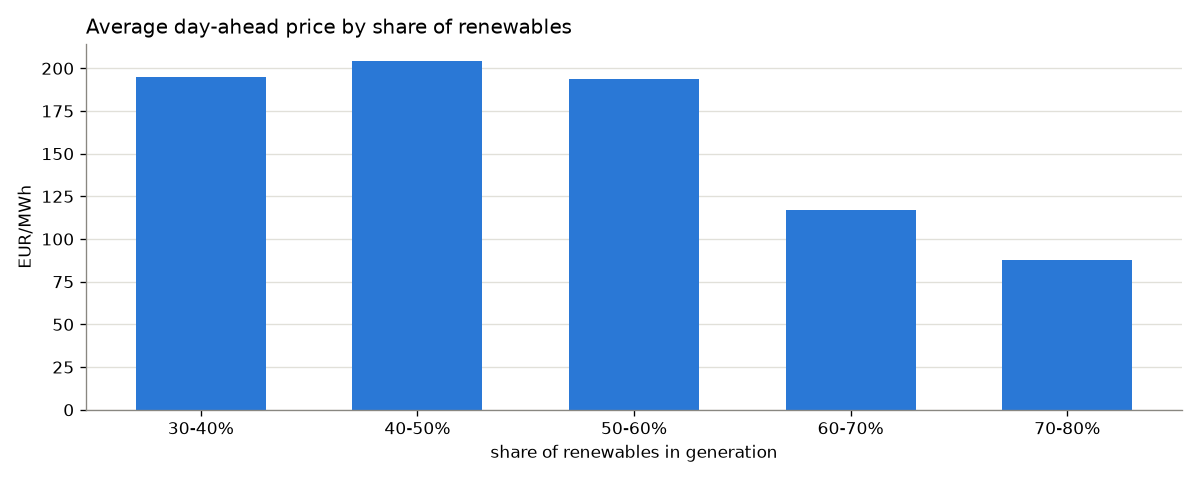
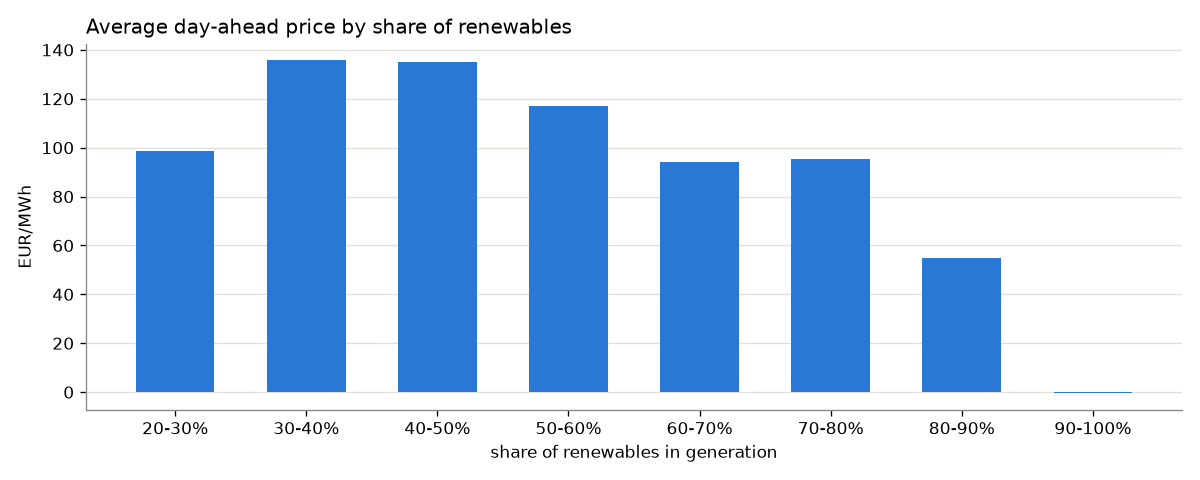
Base the README findings on a full year of data
The findings came from a single summer month, and two of them didn't hold over a year. Nuclear was not normally offline: it runs at about a fifth of generation and was near zero on 53 days in two stretches. The renewables-price correlation is -0.18 over the year rather than -0.59, and close to zero in winter and autumn. The section now covers 12 months, with monthly and seasonal charts replacing the one-month hourly ones.

diff --git a/README.md b/README.md
@@ -11,33 +11,54 @@ and downloads incrementally, fetching only what is missing.
 
 ## Key findings
 
-Romania, 16 August – 15 September 2026: 30 days at 15-minute resolution,
-from the ENTSO-E Transparency Platform. Hours are Romanian local time.
+Romania, 12 months (15 September 2025 – 15 September 2026) at 15-minute
+resolution, from the ENTSO-E Transparency Platform. Monthly figures use the 11
+complete months, October 2025 – August 2026. Hours are local time.
 
-**Solar reshapes the day.** Renewables supplied 57% of generation on an
-average day (between 51% and 63%). Gas (25%), hydro (23%) and solar (20%)
-were the largest sources, followed by coal (16%) and wind (13%). Nuclear was
-reported at 0 MW for the whole period.
+**The generation mix changes a lot through the year.** Over the year, hydro
+supplied 27% of the energy generated, gas 21%, nuclear 17%, wind 13%, coal 12%
+and solar 9%. Renewables averaged 50% of generation per day, from 30% on
+21 December 2025 to 83% on 24 May 2026. Solar grows from about 2% of monthly
+generation in December and January to 20% in August. In spring, hydro and
+solar peak together, and renewables reached 69% of generation in May.
 
-![Generation by source, average hourly profile](docs/images/generation_mix_hourly.png)
+![Generation mix by month](docs/images/generation_mix_monthly.png)
 
-**More renewables, lower prices.** The day-ahead price averaged around
-200 EUR/MWh while renewables stayed below 60% of generation, then fell to
-117 EUR/MWh at 60–70% and 88 EUR/MWh above 70% (correlation −0.59).
-Weekends were cheaper too: 133 EUR/MWh versus 180 EUR/MWh on weekdays.
+![Average hourly generation profile per season](docs/images/generation_mix_by_season.png)
+
+**Nuclear isn't always there.** Nuclear normally runs at about 1,100 MW,
+around a fifth of generation, but it was near zero on 53 days: in May–June and
+again from mid-August 2026.
+
+**Renewables and prices are linked more weakly than a single month suggests.**
+In one summer month, the correlation between the share of renewables and the
+day-ahead price was −0.59. Over the full year it is −0.18, and it depends on
+the season: −0.41 in summer, −0.16 in spring, and close to zero in winter
+(−0.07) and autumn (+0.09). Monthly averages show why a single month can
+mislead. January was expensive (151 EUR/MWh) with 42% renewables, and August
+was just as expensive (151 EUR/MWh) with 55%, while April was the cheapest
+month (96 EUR/MWh) with 58%.
+
+![Share of renewables and day-ahead price by month](docs/images/renewables_and_price_monthly.png)
+
+The link does show at the extremes. At 80–90% renewables, the average price
+was 55 EUR/MWh. Prices went negative on 40 days, 173 hours in total, all from
+February to September. Weekends were cheaper than weekdays: 94 versus
+132 EUR/MWh.
 
 ![Average day-ahead price by share of renewables](docs/images/price_vs_renewables.png)
 
-**A midday surplus, an evening deficit.** Generation exceeded load only
-between 10:00 and 16:00, when solar peaks. For 76% of the time Romania
-generated less than it consumed, with the largest gap — about 1,900 MW —
-around 19:00, as solar fades while demand is still high.
+**A midday surplus and an evening deficit.** On average, generation exceeded
+load only between 10:00 and 15:00. Romania generated less than it consumed 68%
+of the time, with the largest average gap, about 1,200 MW, around 20:00.
 
-![Generation minus load, hourly average](docs/images/generation_minus_load_hourly.png)
+**Neighbouring markets.** Bulgaria cleared at exactly the same day-ahead price
+as Romania 75% of the time. Hungary did so only 14% of the time, with a mean
+difference of 7 EUR/MWh.
 
-These are observations over one month, not causal claims: the price link
-also reflects time of day and demand, which move together with solar
-output. The charts come from `python -m src.report`; see
+These are observations, not causes. Prices also depend on demand, fuel costs,
+imports and time of day, all of which move with the seasons. The charts come
+from `python -m src.report` run on one year of data (`BACKFILL_DAYS=365`); see
 [Generated analyses](#generated-analyses) for how each figure is computed.
 
 ## Architecture
@@ -214,6 +235,12 @@ cover the first country in `COUNTRIES`.
 - generation minus load by hour — when Romania is in deficit and covers it
   with imports (an approximation: reported load and generation don't cover
   exactly the same installations)
+
+**Seasons and months** (once the data spans at least three complete months)
+- renewable share and mean day-ahead price per month
+- generation mix per month
+- average hourly generation profile for each season
+- mean price, renewable share and their correlation within each season
 
 **Country comparison** (when `COUNTRIES` lists more than one, e.g. `RO,HU,BG`)
 - average day-ahead price per country, over the intervals priced in all of them
